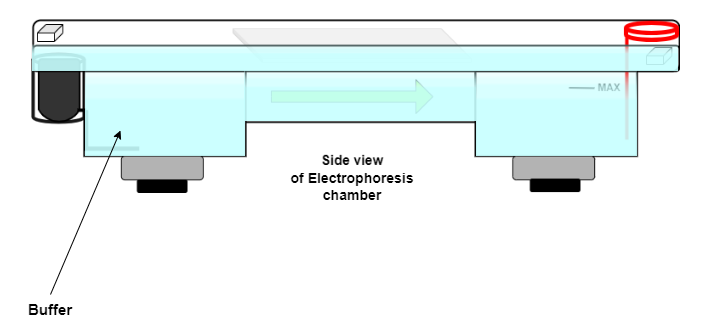
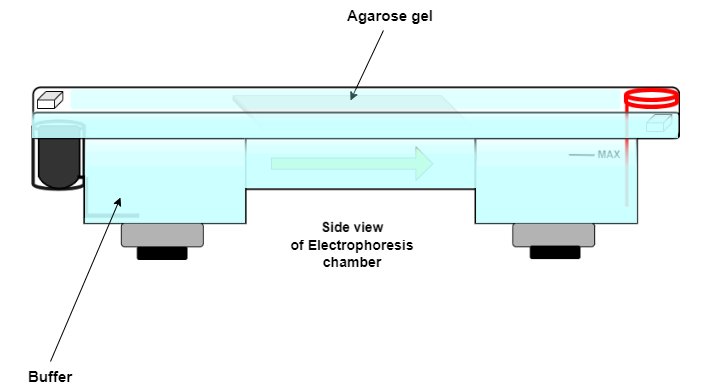
agarosegel

Changed region(s): [[0.0312, 0.0309, 0.9688, 0.7099], [0.0312, 0.8333, 0.0938, 0.9877], [0.0938, 0.679, 0.125, 0.8025]]

diff --git a/experiment/simulation/js/main.js b/experiment/simulation/js/main.js
@@ -123,6 +123,7 @@ function buffer_load() {
   //document.getElementById("tubemeter").style.display = "block";
   document.getElementById("buffer").style.display = "block";
   window.scrollBy(0, 300);
+  
   //document.getElementById("buffertext").style.display = "none";
 }
 
@@ -976,8 +977,8 @@ function addbuffer() {
 
   function drawLine() {
 
-    ctxs1.strokeStyle = '#E0FCFF  ';
-    ctxs1.globalAlpha = 0.02;
+    ctxs1.strokeStyle = '#CCFFFF ';
+    ctxs1.globalAlpha = 0.03;
     ctxs1.lineWidth = 600;
     ctxs1.beginPath();
     ctxs1.moveTo(0, posY); /*  0-130*/
@@ -1011,8 +1012,8 @@ function addbuffer() {
 
   function drawLines2() {
 
-    ctxs2.strokeStyle = '#E0FCFF ';
-    ctxs2.globalAlpha = 0.02;
+    ctxs2.strokeStyle = '#CCFFFF ';
+    ctxs2.globalAlpha = 0.03;
     ctxs2.lineWidth = 600;
     ctxs2.beginPath();
     ctxs2.moveTo(0, posYs2); /*  0-130*/
@@ -1041,6 +1042,8 @@ function addbuffer() {
 
 
   /**side 3 */
+
+  
   canvasside3 = document.getElementById("myCanvass3");
   ctxs3 = canvasside3.getContext("2d");
   var posYs3 = 135;
@@ -1048,8 +1051,8 @@ function addbuffer() {
 
   function drawLines3() {
 
-    ctxs3.strokeStyle = '#E0FCFF ';
-    ctxs3.globalAlpha = 0.02;
+    ctxs3.strokeStyle = '#CCFFFF '; /*E0FCFF*/ 
+    ctxs3.globalAlpha = 0.03;
     ctxs3.lineWidth = 600;
     ctxs3.beginPath();
     ctxs3.moveTo(0, posYs3); /*  0-130*/
@@ -1082,8 +1085,8 @@ function addbuffer() {
 
   function drawLines4() {
 
-    ctxs4.strokeStyle = '#E0FCFF ' //'#D0F7FF';
-    ctxs4.globalAlpha = 0.02;
+    ctxs4.strokeStyle = '#CCFFFF ' //'#D0F7FF';
+    ctxs4.globalAlpha = 0.03;
     ctxs4.lineWidth = 600;
     ctxs4.beginPath();
     ctxs4.moveTo(0, posYs4); /*  0-130*/
@@ -1107,9 +1110,16 @@ function addbuffer() {
     cancelani = requestAnimationFrame(loops4);
   }
   requestAnimationFrame(loops4);
-
+  
   //document.getElementById("sampleload").disabled = true;
   window.scrollBy(0, 500);
+
+  setInterval(fillbuffer, 2000);
+
+  function fillbuffer(){
+    document.getElementById("bufferloadimg").style.display="block";
+    document.getElementById("bufferintopimg").style.display="block";
+  }
 
 }
 

diff --git a/experiment/simulation/css/main.css b/experiment/simulation/css/main.css
@@ -401,7 +401,28 @@ path,
 
 
 
+
 /* JS plumb connection ends*/
+
+
+#bufferloadimg{
+    position: absolute;
+    width: 30%;
+    top: 222%;
+    left: 52%;
+    cursor: pointer;
+    opacity: 70%;
+}
+
+#bufferintopimg{
+    position: absolute;
+    width: 23%;
+    top: 222%;
+    left: 8%;
+    cursor: pointer;
+    opacity: 100%;
+    z-index: 10;
+}
 
 #sideviewcase {
     position: absolute;
@@ -484,6 +505,7 @@ path,
     height: 31%;
     top: 238%;
     left: 52.95%;
+    opacity: 50%;
 
 }
 
@@ -534,6 +556,7 @@ path,
     height: 31%;
     top: 238%;
     left: 74%;
+    opacity: 50%;
 
 }
 
@@ -543,6 +566,7 @@ path,
     height: 9.4%;
     top: 229%;
     left: 50.1%;
+    opacity: 50%;
 
 }
 
@@ -553,6 +577,7 @@ path,
     top: 238%;
     left: 61.5%;
     z-index: 1;
+    opacity: 50%;
 
 }
 

diff --git a/experiment/simulation/index.html b/experiment/simulation/index.html
@@ -535,6 +535,11 @@ Developer: Prakriti Dhang
 					<img src="./images/sideviewcase.png" id="sideviewcase" data-toggle="tooltip" data-placement="top"
 						title="Side view of Electrophoresis chamber"> <!-- sideviewcase-->
 
+						<img src="./images/bufferload.png" id="bufferloadimg" 
+						style="cursor: pointer; display:none;">
+						<img src="./images/bufferintop.png" id="bufferintopimg" 
+						style="cursor: pointer; display:none;">
+
 					<img src="./images/uv-machine.png" id="uvmachine" data-toggle="tooltip" data-placement="top"
 						title="UV transilluminator machine"> <!-- uv machine -->
 

diff --git a/experiment/procedure.md b/experiment/procedure.md
@@ -7,15 +7,18 @@ The protocol for running an agarose gel has been described briefly in the follow
 
 1. **Agarose Gel Preparation**
 
-      <div align="center">
-      <img src="images/step1.png" class="img-fluid">
-       </div>
+      
 
    1. Mix the agarose powder with electrophoresis buffer, TAE or TBE to the required concentration. Heat the mixture in a microwave oven to melt it.
    2. The agarose percentage used depends on the size of the fragments to be settled. The agarose gels are normally in the range of 0.2 – 3.0%. Low agarose concentrations are used to
 resolve large DNA fragments, while high agarose concentrations allow the separation of
 small DNA fragments.
-   3. Once the mixture is cooled, add EtBr to the gel to facilitate visualization of DNA after electrophoresis. Pour it into a casting tray with a sample comb inserted on it. Allow the gel to solidify at room temperature.
+   3. Once the mixture is cooled, add EtBr to the gel to facilitate visualization of DNA after electrophoresis. Pour it into a casting tray with a sample comb inserted on it. Allow the gel to solidify at room temperature. 
+   
+   <div align="center">
+      <img src="images/step1.png" class="img-fluid">
+       </div>
+
    4. After the solidification of the gel, remove the comb gently without ripping the bottom of the wells. There will be formation of wells on the gel.
    5. Insert the gel in a plastic tray horizontally into the electrophoresis chamber and pour the electrophoresis buffer sufficiently to immerse the gel with the buffer.
 
